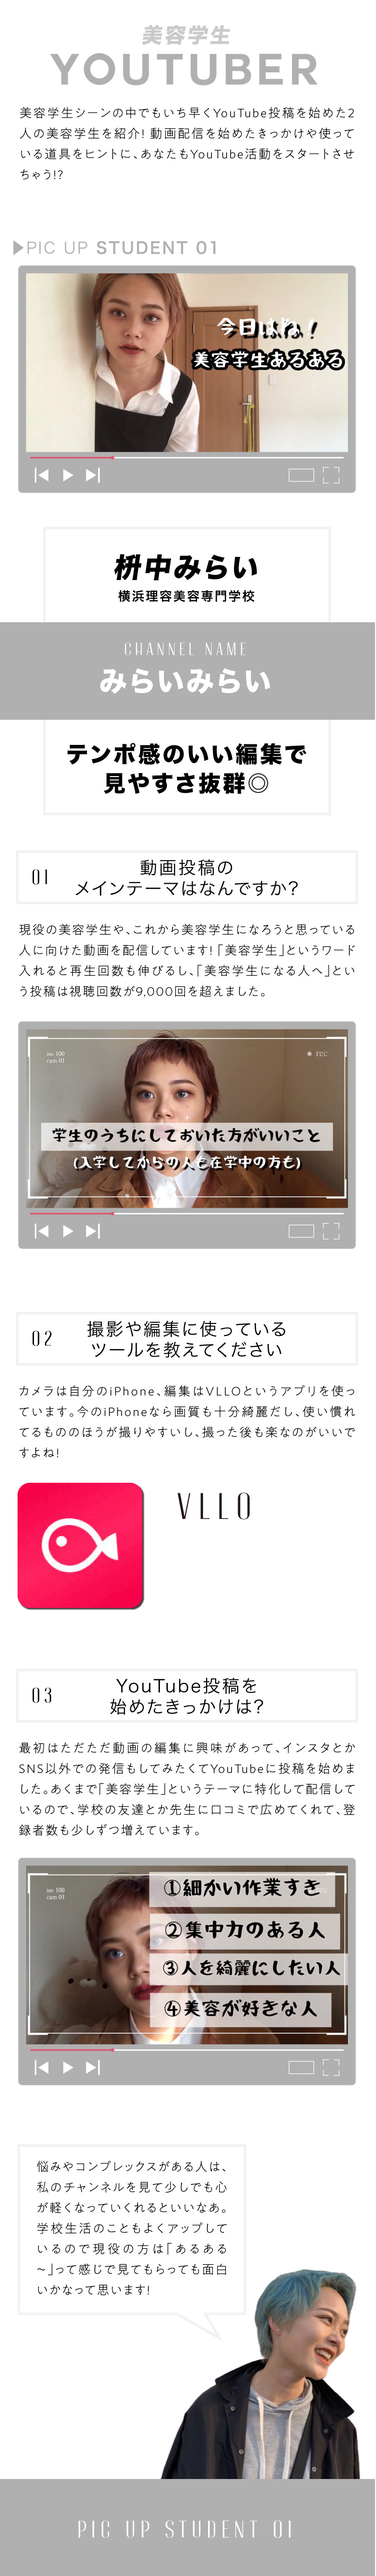
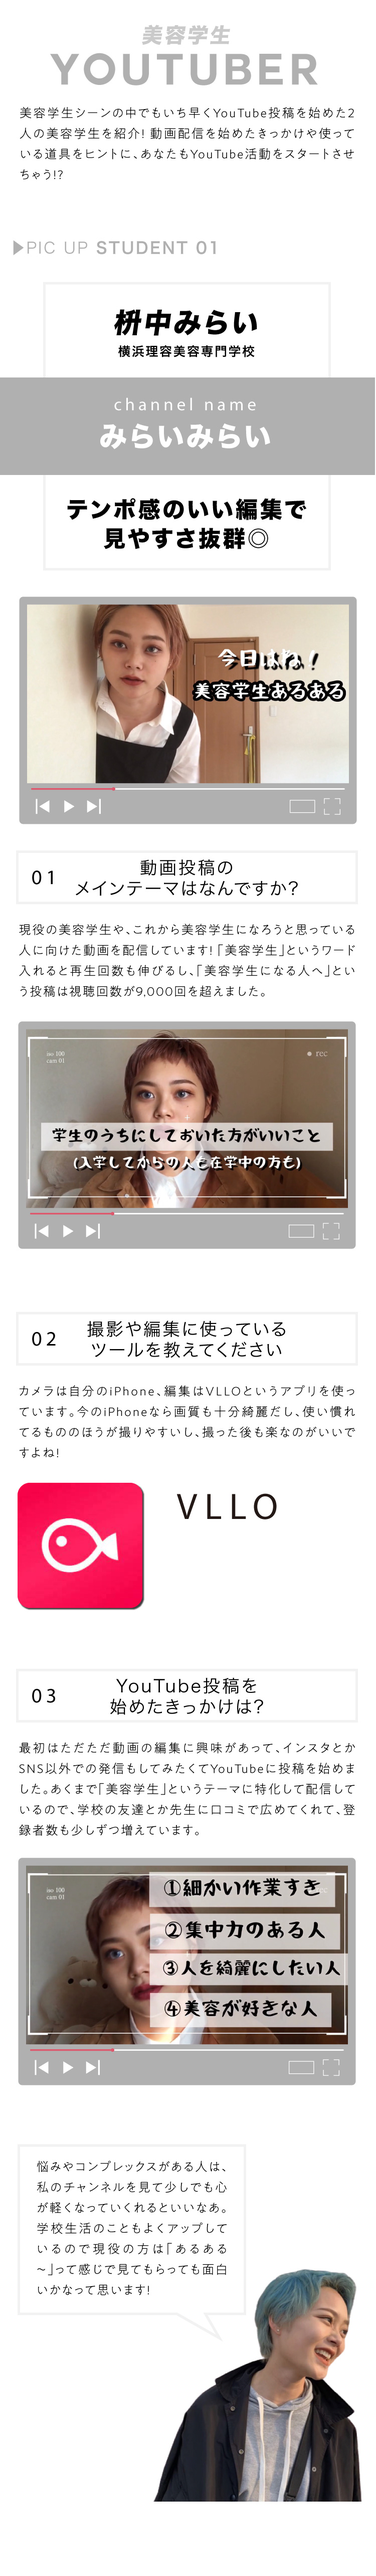
added something

diff --git a/index.html b/index.html
@@ -37,12 +37,12 @@
                 <div class="mirai">
                     <img class="visual_pic" src="./images/mirai.jpg" alt="みらい">
                     <div class="AppStore">
-                        <a href="">
+                        <a href="https://apps.apple.com/jp/app/vllo-%E3%83%96%E3%83%AD-%E7%B0%A1%E5%8D%98%E3%81%AB%E5%8B%95%E7%94%BB%E7%B7%A8%E9%9B%86%E3%81%A7%E3%81%8D%E3%82%8Bvlog%E3%82%A2%E3%83%97%E3%83%AA/id952050883">
                             <img src="./images/AppStore.jpg" alt="アップストアからダウンロード">
                         </a>
                     </div>
                     <div class="follow">
-                        <a href="">
+                        <a href="https://instagram.com/_spy28?igshid=m9zp32mamr1">
                             <img src="./images/follow.jpg" alt="インスタをCHECK!">
                         </a>
                     </div>
@@ -51,12 +51,12 @@
                 <div class="mutsuki">
                     <img class="visual_pic" src="./images/mutsuki.jpg" alt="みらい">
                     <div class="AppStore02">
-                        <a href="">
+                        <a href="https://apps.apple.com/jp/app/imovie/id377298193">
                             <img src="./images/AppStore.jpg" alt="アップストアからダウンロード">
                         </a>
                     </div>
                     <div class="follow02">
-                        <a href="">
+                        <a href="https://instagram.com/mutsu525?igshid=1fhjo3zf29q0f">
                             <img src="./images/follow.jpg" alt="インスタをCHECK!">
                         </a>
                     </div>
@@ -65,7 +65,7 @@
                 <div class="BESTAR">
                     <img class="visual_pic" src="./images/bestar_tv.jpg" alt="BESTAR">
                     <div class="bestar_tv">
-                        <a href="">
+                        <a href="https://www.youtube.com/channel/UCUjkP4CqGfXiyPquyvq1RTQ">
                             <img src="./images/bestar_tv2.jpg" alt="ボタンをタップしてBESTAR TVへ!">
                         </a>
                     </div>

diff --git a/css/index.css b/css/index.css
@@ -55,14 +55,14 @@ a {
 .AppStore02 {
     position: absolute;
     width: 37%;
-    top: 57.1%;
+    top: 59.8%;
     left: 43%;
     width: 50%;
 }
 
 .follow02 {
     position: absolute;
-    top: 89.5%;
+    top: 93.9%;
     left: 5.5%;
     width: 40%;
 }
